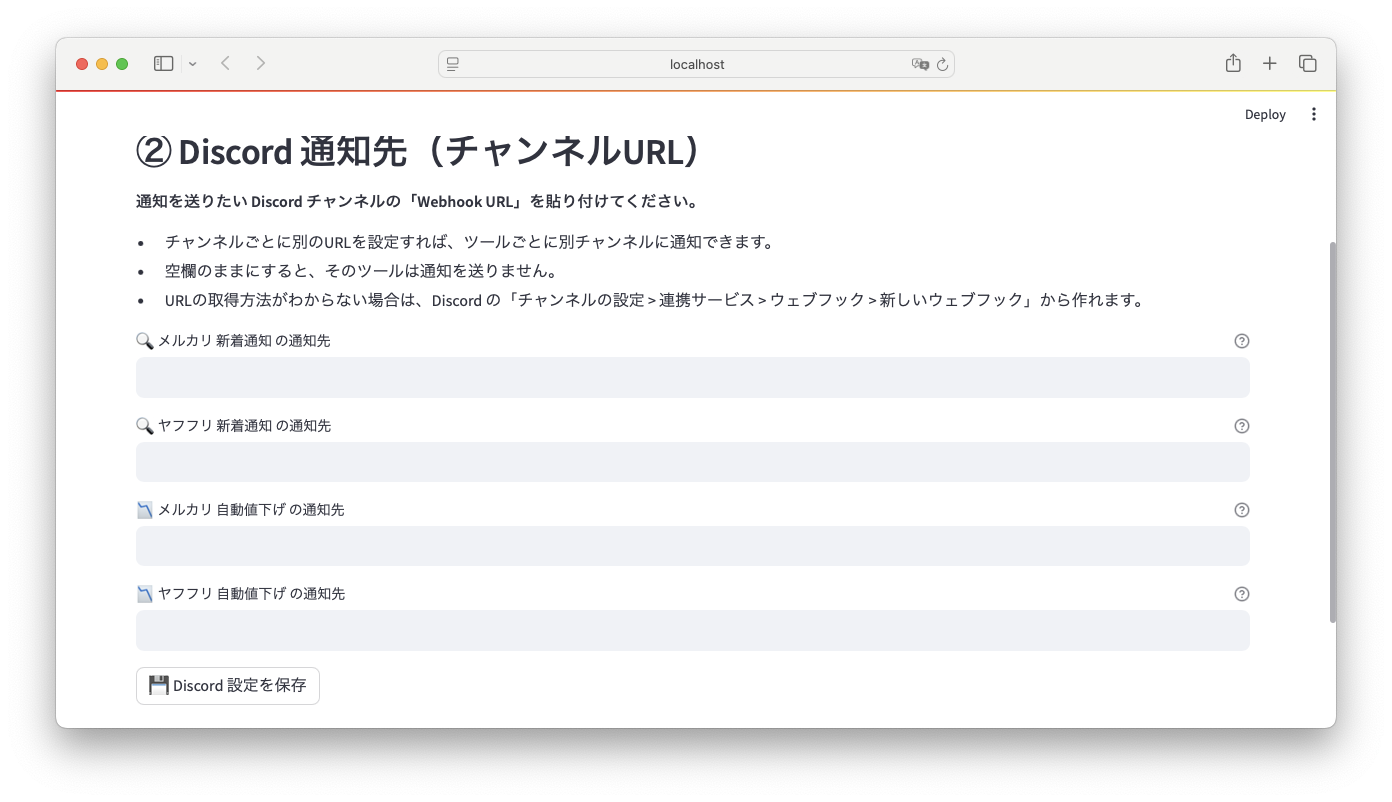
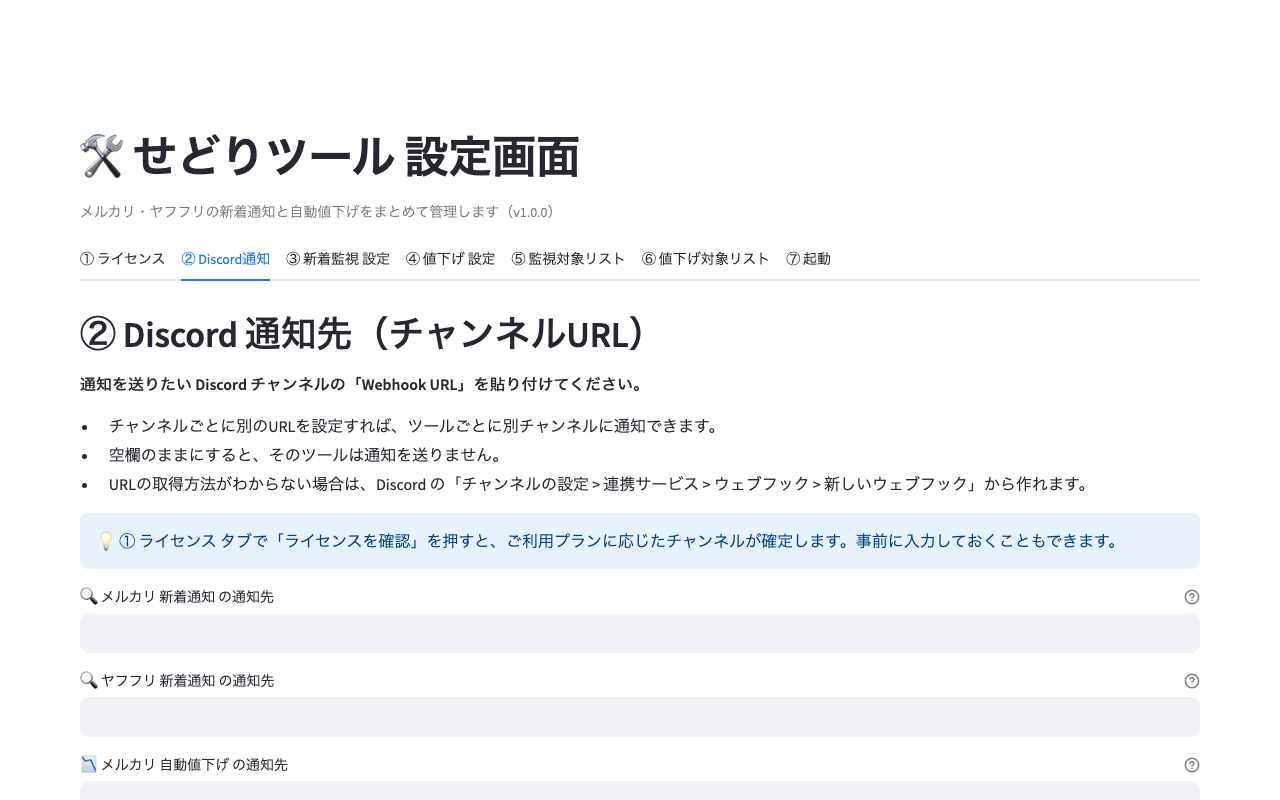
fix: マニュアルの誤表記と古い埋め込み画像を更新
- ホームページ「スクリーンショット付き」→「Mac はSS付き・Windows はテキストガイド形式」に修正
- 19_discord_tab.png をDeploy/Toolbarボタン非表示の現行UIで撮り直し

diff --git a/manual.py b/manual.py
@@ -66,7 +66,7 @@ if page == "🏠 ホーム":
     ## メルカリ・ヤフフリの新着監視・自動値下げを完全自動化
 
     このマニュアルは、せどりツールを **完全自動化** するための完全ガイドです。
-    スクリーンショット付きで、初心者でも安心して進められます。
+    Mac はスクリーンショット付き・Windows はテキストガイド形式で、初心者でも安心して進められます。
 
     ### 🚀 クイックスタート
 
